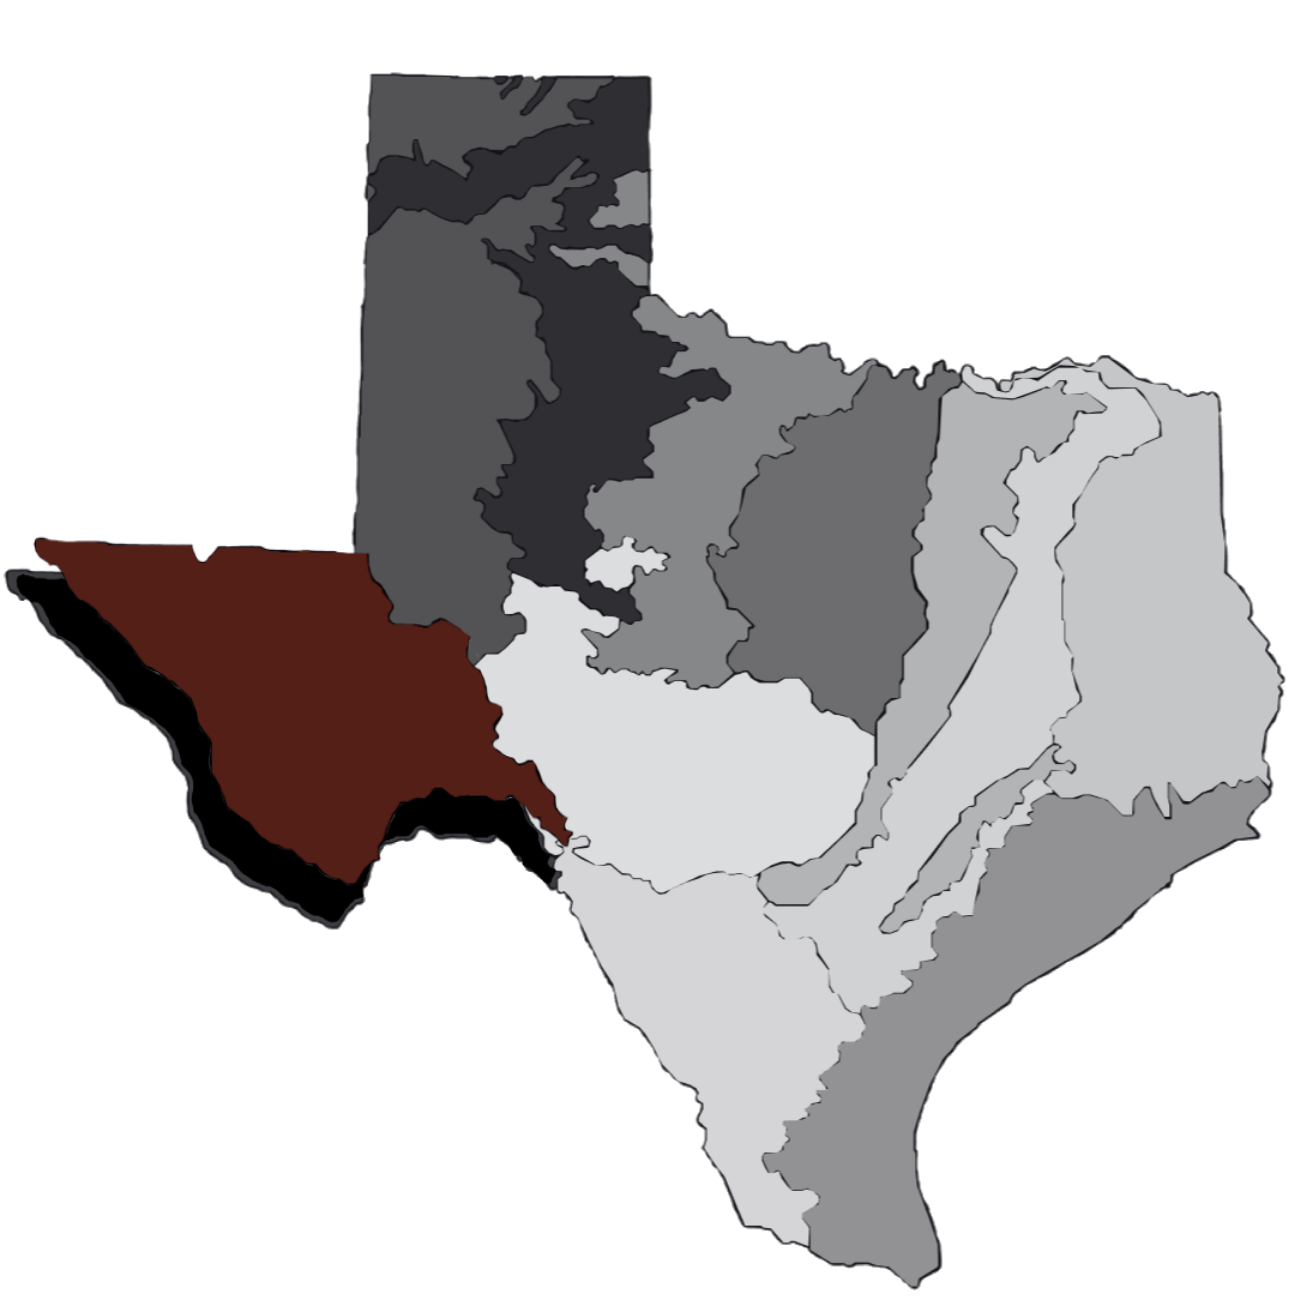
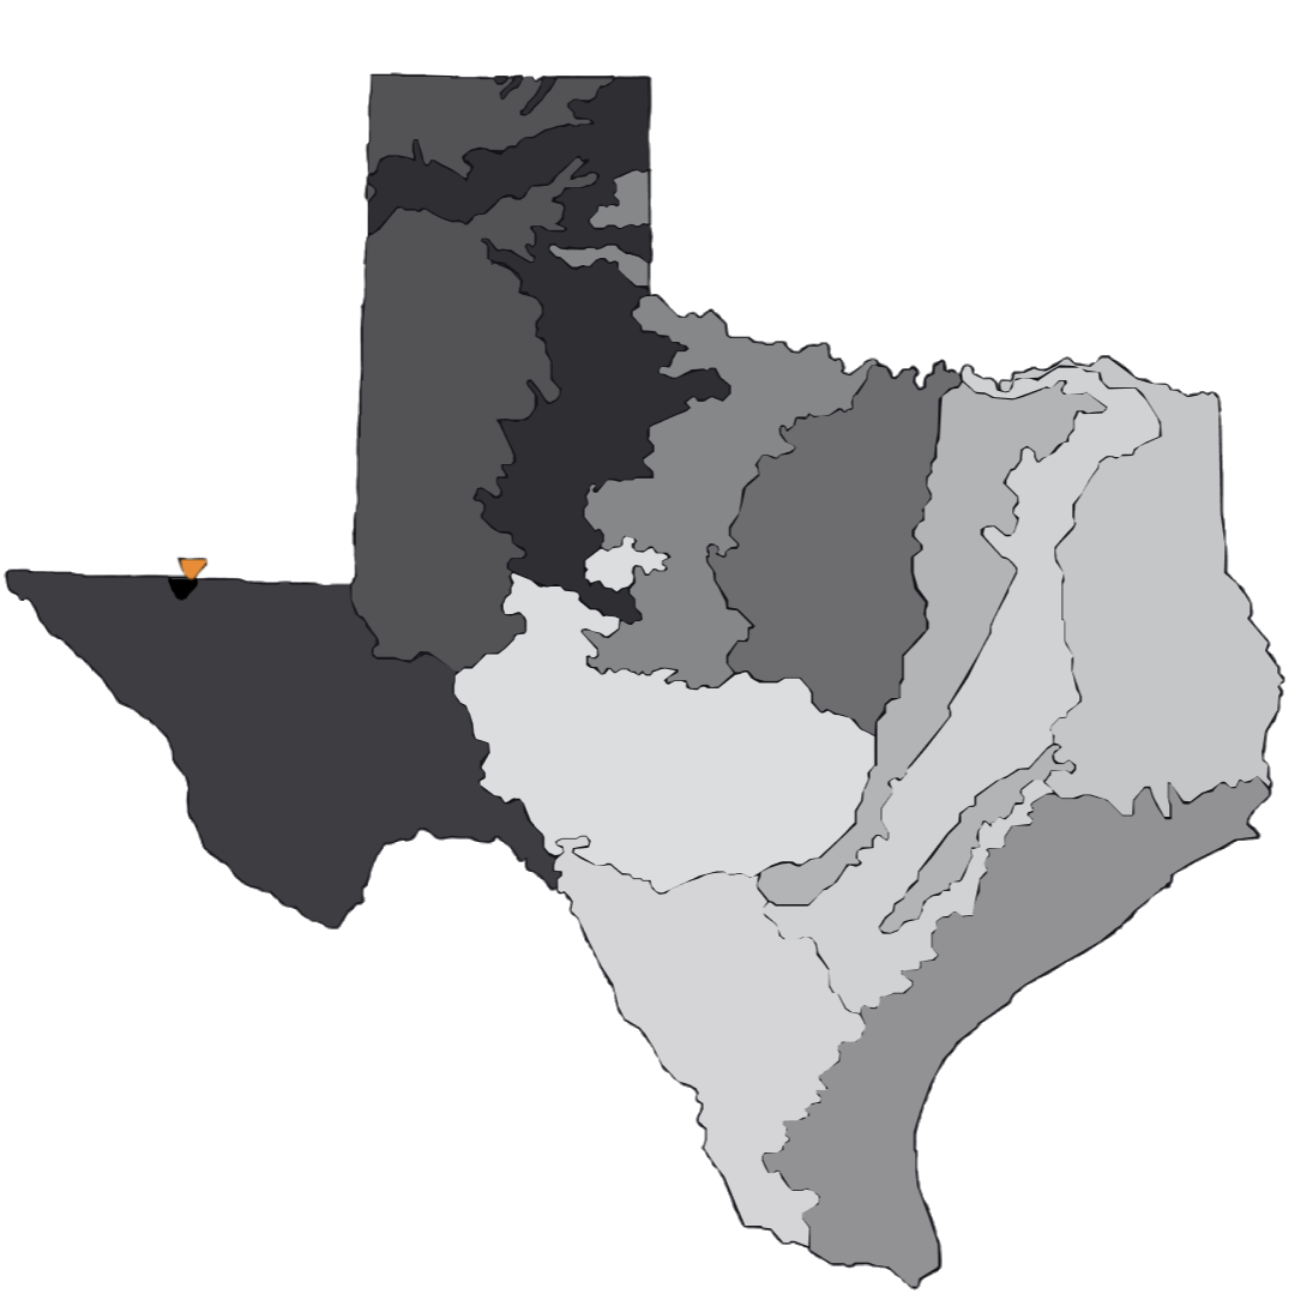
updated detail pages
- added scrollmenu backgrounds

Changed region(s): [[0.0, 0.4, 0.4615, 0.7077]]

diff --git a/english-details.html b/english-details.html
@@ -23,7 +23,6 @@
         <a href="english-landing.html">← Back</a>
       </div>
       </div>
-      <p class="ecoregion-description" style="margin-top: 45px;">The Chihuahuan Desert is a warm desert located in southwestern North America. It is the largest hot desert in North America, with a landscape featuring arid mountains, desert basins, and sparse vegetation adapted to extreme heat and drought conditions.</p>
       
       <!-- map section + description + database button
       <div class="landing-container">
@@ -43,14 +42,17 @@
           <div class="landing-container">
         <div class="map-section">
           <svg viewBox="0 0 1300 1300" preserveAspectRatio="xMidYMid meet" class="scaled-svg">
-          <image href="Ecoregions/arizona-bw-map.png" alt="Texas Ecoregions Map" style="width: 1300px; height: auto;"></image>
+          <image href="Ecoregions/chihuahuan-bw-map.png" alt="Texas Ecoregions Map" style="width: 1300px; height: auto;"></image>
         </svg>
         </div>
         <div class="legend-sidebar">
-          <h1>Chihuahuan Desert</h1>
           <div class="ecoregion-description">
-              <span class="description">The Chihuahuan Desert is a warm desert located in southwestern North America. It is the largest hot desert in North America, with a landscape featuring arid mountains, desert basins, and sparse vegetation adapted to extreme heat and drought conditions.</span>
+              <span class="description"><b>The Chihuahuan Desert</b> is a warm desert located in southwestern North America. It is the largest hot desert in North America, with a landscape featuring arid mountains, desert basins, and sparse vegetation adapted to extreme heat and drought conditions.</span>
           </div>
+            <div class="database-button">
+              <a href="https://www.wildflower.org/collections/collection.php?collection=er24" target="_blank" rel="noopener noreferrer">
+                <img src="Ecoregions/database-button.png" alt="View more plants in this region"></a>
+            </div>
         </div>
       </div>
 
@@ -59,7 +61,7 @@
       <!----- Horizontal Banner ------>
       <h1 class="native-title" style="margin-bottom: 45px;">NATIVE PLANTS</h1>
 
-      <div class="scrollmenu plantlist">
+      <div class="scrollmenu plantlist" style="background-image: url('Backgrounds/chihuahuan-bg.jpg'); background-position: center center;">
         <div class="native-card">
           <img src="Native/Chihuahuan-Desert/American Century Plant.jpg" alt="American Century Plant">
           <p class="plant-name">Agave americana</p>
@@ -149,10 +151,11 @@
         </div>
       </div>
 
-      <div class="database-button">
+      <!-- database-comment
+       <div class="database-button">
         <a href="https://www.wildflower.org/collections/collection.php?collection=er24" target="_blank" rel="noopener noreferrer">
           <img src="Native/database-button.png" alt="View more plants in this region"></a>
-      </div>
+      </div>-->
 
 <!--- Invasive Species Cards ---->
 
@@ -185,7 +188,7 @@
 <!----- Horizontal Banner ------>
       <h1 class="native-title" style="margin-bottom: 45px;">NATIVE PLANTS</h1>
 
-      <div class="scrollmenu plantlist">
+      <div class="scrollmenu plantlist" style="background-image: url('Backgrounds/southwestern-bg.jpg'); background-position: center center;">
         <div class="native-card">
           <img src="Native/Southwestern Tablelands/Dwarf Indian Mallow.jpg" alt="Dwarf Indian Mallow">
           <p class="plant-name">Abutilon parvulum</p>
@@ -314,7 +317,7 @@
       <!----- Horizontal Banner ------>
       <h1 class="native-title" style="margin-bottom: 45px;">NATIVE PLANTS</h1>
 
-      <div class="scrollmenu plantlist">
+      <div class="scrollmenu plantlist" style="background-image: url('Backgrounds/high-plains-bg.jpg'); background-position: center center;">
         <div class="native-card">
           <img src="Native/High Plains/Fragrant Sand-verbena.jpg" alt="Fragrant Sand-verbena">
           <p class="plant-name">Abronia fragrans</p>
@@ -440,7 +443,7 @@
       <!----- Horizontal Banner ------>
       <h1 class="native-title" style="margin-bottom: 45px;">NATIVE PLANTS</h1>
 
-      <div class="scrollmenu plantlist">
+      <div class="scrollmenu plantlist" style="background-image: url('Backgrounds/central-plains-bg.jpg'); background-position: center center;">
         <div class="native-card">
           <img src="Native/High Plains/Fragrant Sand-verbena.jpg" alt="Fragrant Sand-verbena">
           <p class="plant-name">Abronia fragrans</p>
@@ -567,7 +570,7 @@
       <!----- Horizontal Banner ------>
       <h1 class="native-title" style="margin-bottom: 45px;">NATIVE PLANTS</h1>
 
-      <div class="scrollmenu plantlist">
+      <div class="scrollmenu plantlist" style="background-image: url('Backgrounds/cross-bg.jpg'); background-position: center center;">
         <div class="native-card">
           <img src="Native/High Plains/Prairie Acacia.jpg" alt="Prairie Acacia">
           <p class="plant-name">Acaciella angustissima</p>
@@ -694,7 +697,7 @@
       <!----- Horizontal Banner ------>
       <h1 class="native-title" style="margin-bottom: 45px;">NATIVE PLANTS</h1>
 
-      <div class="scrollmenu plantlist">
+      <div class="scrollmenu plantlist" style="background-image: url('Backgrounds/edwards-bg.jpg'); background-position: center center;">
         <div class="native-card">
           <img src="Native/High Plains/Fragrant Sand-verbena.jpg" alt="Fragrant Sand-verbena">
           <p class="plant-name">Abronia fragrans</p>
@@ -821,7 +824,7 @@
       <!----- Horizontal Banner ------>
       <h1 class="native-title" style="margin-bottom: 45px;">NATIVE PLANTS</h1>
 
-      <div class="scrollmenu plantlist">
+      <div class="scrollmenu plantlist" style="background-image: url('Backgrounds/southern-plains-bg.jpg'); background-position: center center;">
         <div class="native-card">
           <img src="Native/Southern Texas Plains/Shrubby Indian Mallow.jpg" alt="Shrubby Indian Mallow">
           <p class="plant-name">Abutilon abutiloides</p>
@@ -948,7 +951,7 @@
       <!----- Horizontal Banner ------>
       <h1 class="native-title" style="margin-bottom: 45px;">NATIVE PLANTS</h1>
 
-      <div class="scrollmenu plantlist">
+      <div class="scrollmenu plantlist" style="background-image: url('Backgrounds/blackland-bg.jpg'); background-position: center center;">
         <div class="native-card">
           <img src="Native/High Plains/Fragrant Sand-verbena.jpg" alt="Fragrant Sand-verbena">
           <p class="plant-name">Abronia fragrans</p>
@@ -1075,7 +1078,7 @@
       <!----- Horizontal Banner ------>
       <h1 class="native-title" style="margin-bottom: 45px;">NATIVE PLANTS</h1>
 
-      <div class="scrollmenu plantlist">
+      <div class="scrollmenu plantlist" style="background-image: url('Backgrounds/east-central-bg.jpg'); background-position: center center;">
         <div class="native-card">
           <img src="Native/East Central Texas Plains/Slender Threeseed Mercury.jpg" alt="Slender Threeseed Mercury">
           <p class="plant-name">Acalypha gracilens</p>
@@ -1202,7 +1205,7 @@
       <!----- Horizontal Banner ------>
       <h1 class="native-title" style="margin-bottom: 45px;">NATIVE PLANTS</h1>
 
-      <div class="scrollmenu plantlist">
+      <div class="scrollmenu plantlist" style="background-image: url('Backgrounds/gulf-bg.jpg'); background-position: center center;">
         <div class="native-card">
           <img src="Native/Southern Texas Plains/Shrubby Indian Mallow.jpg" alt="Shrubby Indian Mallow">
           <p class="plant-name">Abutilon abutiloides</p>
@@ -1330,7 +1333,7 @@
       <!----- Horizontal Banner ------>
       <h1 class="native-title" style="margin-bottom: 45px;">NATIVE PLANTS</h1>
 
-      <div class="scrollmenu plantlist">
+      <div class="scrollmenu plantlist" style="background-image: url('Backgrounds/south-central-bg.jpg'); background-position: center center;">
         <div class="native-card">
           <img src="Native/East Central Texas Plains/Slender Threeseed Mercury.jpg" alt="Slender Threeseed Mercury">
           <p class="plant-name">Acalypha gracilens</p>
@@ -1457,7 +1460,7 @@
       <!----- Horizontal Banner ------>
       <h1 class="native-title" style="margin-bottom: 45px;">NATIVE PLANTS</h1>
 
-      <div class="scrollmenu plantlist">
+      <div class="scrollmenu plantlist" style="background-image: url('Backgrounds/arizona-bg.jpg'); background-position: center center;">
         <div class="native-card">
           <img src="Native/Southern Texas Plains/Bigtooth Maple.jpg" alt="Bigtooth Maple">
           <p class="plant-name">Acer grandidentatum</p>

diff --git a/style.css b/style.css
@@ -65,7 +65,7 @@ html, body {
 
 .legend-sidebar {
   width: 700px;
-  padding: 50px 40px;
+  padding: 50px;
   display: flex;
   flex-direction: column;
   background-color: rgb(255, 255, 255);
@@ -414,20 +414,28 @@ html, body {
   transform: translateX(-5px);
 }
 
+/*
 .ecoregion-title {
-  font-size: 64px;
-  font-weight: 900;
-  color: #60721D;
-  margin-bottom: 20px;
-  text-align: center;
-  font-family: 'Noto Sans Hebrew', 'Noto Sans', sans-serif;
+  background-color:#60721D;
+  width: 100vw;
+  max-width: none;
+  margin: 0 0 0 0;
 }
 
+.ecoregion-title h1{
+  font-size: 64px;
+  font-weight: 900;
+  color: white;
+  margin-bottom: 20px;
+  text-align: right;
+  font-family: 'Noto Sans Hebrew', 'Noto Sans', sans-serif;
+}*/
+
 .ecoregion-description {
-  font-size: 24px;
+  font-size: 30px;
   font-family: Verdana, Geneva, Tahoma, sans-serif;
   color: #60721D;
-  text-align: center;
+  text-align: left;
   max-width: 1500px;
   margin: 0 auto 40px;
   line-height: 1.6;
@@ -494,8 +502,8 @@ html, body {
   color: #60721D;
   text-align: center;
   max-width: 600px;
-  margin: 0 auto 40px;
-  line-height: 1.6;
+  margin: 45px auto 0px;
+  line-height: 0.5;
 }
 
 .plantlist{
@@ -510,11 +518,12 @@ html, body {
   width: 100%;
   height: auto;
   /*overflow-x: scroll; */
+  background-color: #627d00;
   white-space: nowrap;
-  background-color: #60721D;
   padding-top: 20px;
   padding-bottom: 20px;
   margin-bottom: 40px;
+  margin-top: 0px;
   overflow: hidden; /* CHANGE TO HIDDEN TO HIDE SCROLLBAR, CHANGE TO AUTO TO SHOW SCROLLBAR 
   overflow-x: auto;  Enable horizontal scrolling - added this and all below 
   overflow-y: hidden;  Disable vertical scrolling 
@@ -588,10 +597,11 @@ html, body {
 
 .database-button {
   display: flex;
-  justify-content: center;
-  align-items: center;
+  /*justify-content: center;*/
+  /*align-items: center;*/
   width: 100%;
-  margin-bottom: 40px;
+  margin-top: 60px;
+  margin-bottom: 20px;
 }
 
 .database-button a img {
@@ -614,8 +624,8 @@ html, body {
   color: #7d1515;
   text-align: center;
   max-width: 600px;
-  margin: 0 auto 40px;
-  line-height: 1.6;
+  margin: 45px auto 45px;
+  line-height: 0.5;
 }
 
 .plant-image-placeholder {
@@ -841,7 +851,7 @@ html, body {
   }
 
   .detail-page {
-    padding: 40px 20px;
+    padding: 0px 0px;
   }
 
   .plant-grid {
